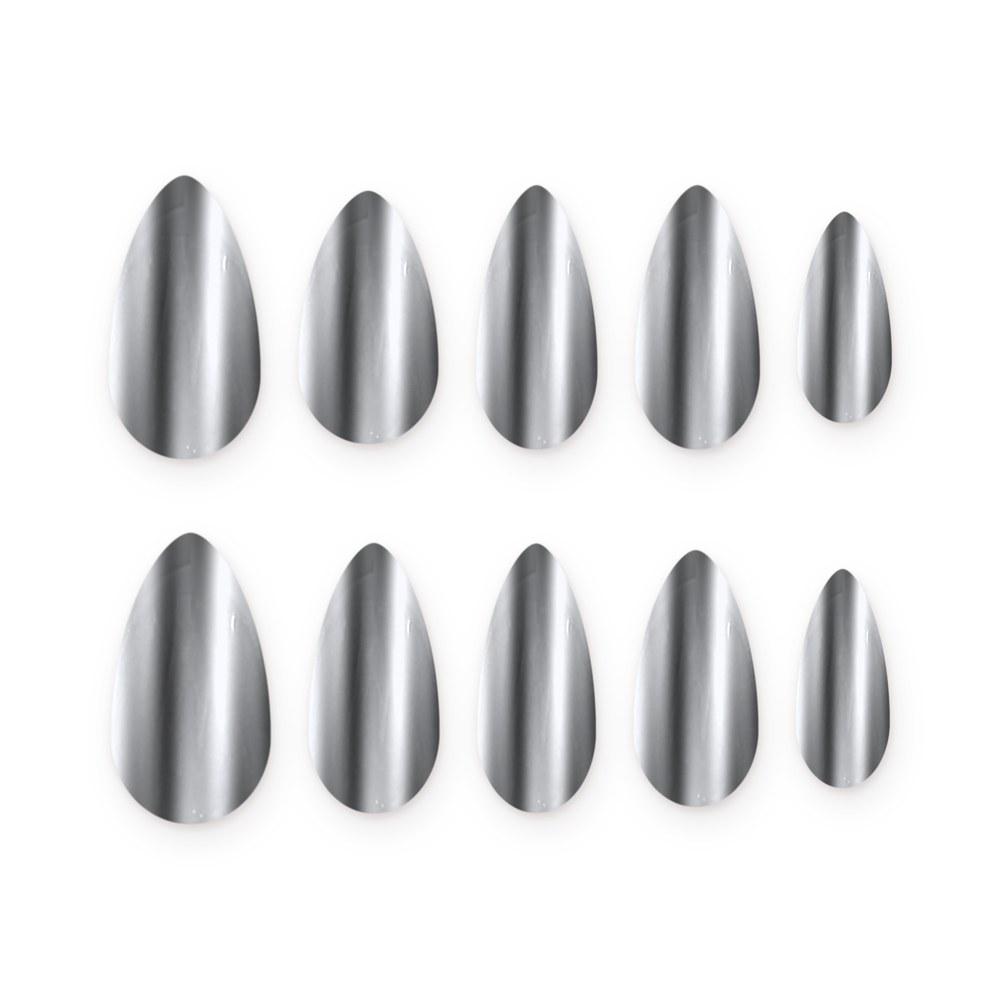
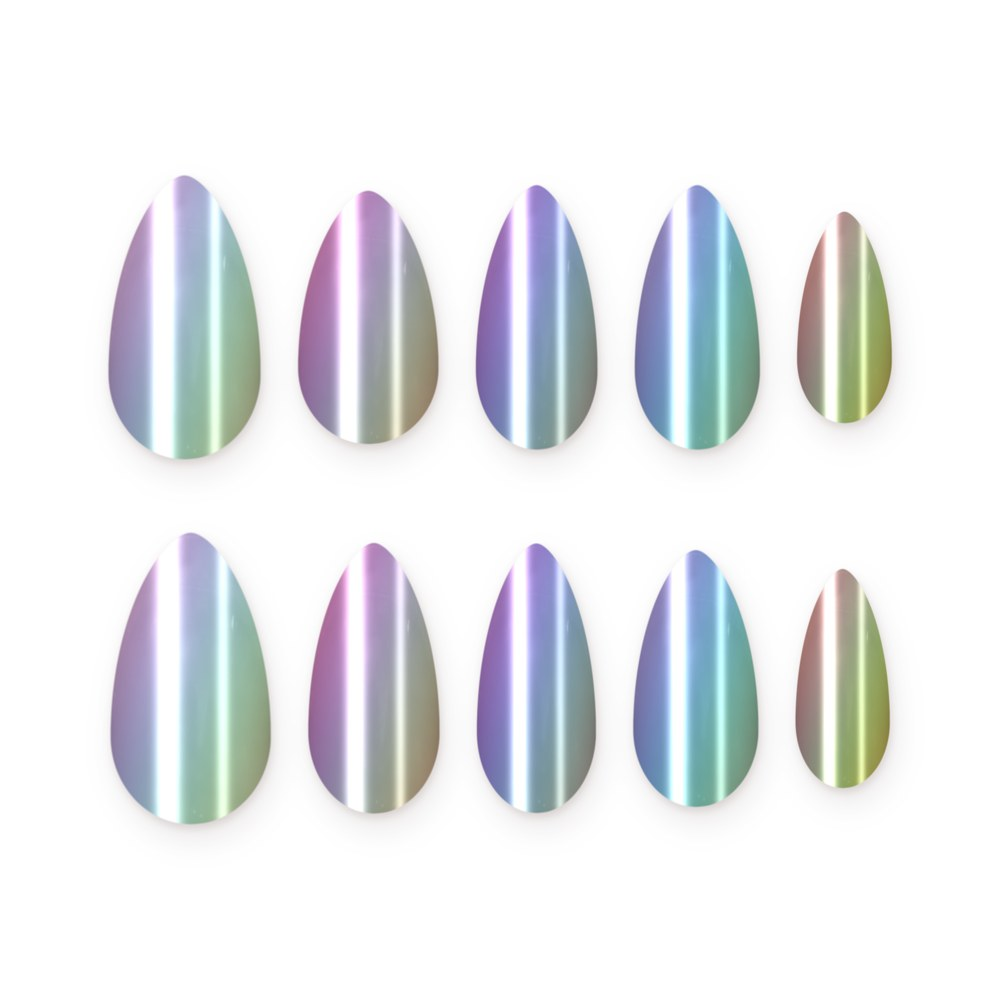
Cromados con brillo tornasolado
Claude-Session: https://claude.ai/code/session_0139vD7MK8qAuBV582Hdbfkc

Changed region(s): [[0.093, 0.155, 0.899, 0.465], [0.31, 0.527, 0.899, 0.837], [0.093, 0.527, 0.279, 0.837]]

diff --git a/index.html b/index.html
@@ -192,7 +192,7 @@ footer a{color:#E3D8D4;margin-right:20px}
       <article class="card" >
         <div class="card-img" style="background:#fff"><img src="img/press-on-cromados.jpg" alt="Uñas press on cromados almendra" loading="lazy" style="width:100%;height:100%;object-fit:cover"></div>
         <div class="card-head"><h3>Cromados</h3><p class="price">Consultar precio</p></div>
-        <p class="card-desc">Efecto espejo metálico, brillante y moderno.</p>
+        <p class="card-desc">Efecto cromado con brillo espejo tornasolado, en blanco perla o en el color que elijas.</p>
         <a class="btn btn-outline" href="https://wa.me/5491123651963?text=%C2%A1Hola%21%20Te%20hablo%20para%20hacerte%20un%20pedido%20de%20press%20on%20%F0%9F%92%85" target="_blank" rel="noopener">Pedir este set</a>
       </article>
 </div>
